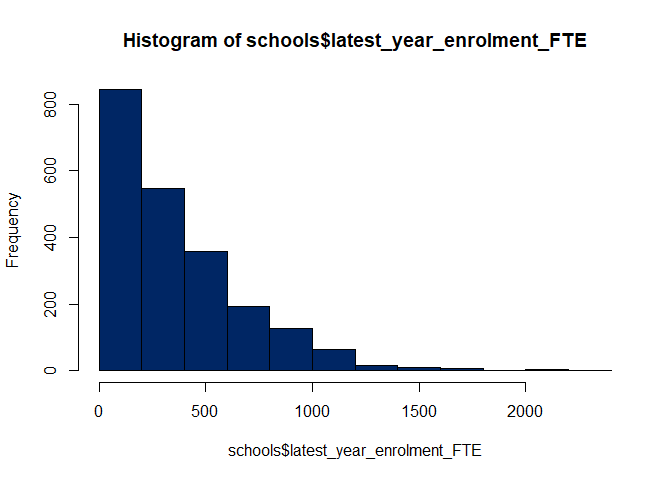
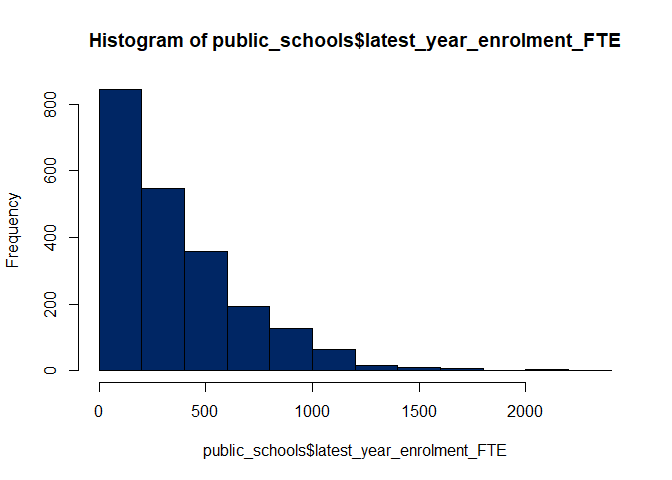
Use public_schools dataset in documentation, instead of an internet-hosted dataset

Changed region(s): [[0.125, 0.0625, 0.9375, 0.125], [0.2812, 0.9062, 0.75, 0.9688]]

diff --git a/README.md b/README.md
@@ -37,19 +37,31 @@ reinstalling packages on Windows.
 ## Usage examples
 
 The following examples use data from the [Public Schools Master
-Dataset](https://data.nsw.gov.au/search/dataset/ds-nsw-ckan-78c10ea3-8d04-4c9c-b255-bbf8547e37e7/).
+Dataset](https://data.nsw.gov.au/data/dataset/nsw-education-nsw-public-schools-master-dataset),
+which is available as a package dataset named `public_schools`.
 
 ``` r
 library(tidyverse)
 library(doestyle)
 
-# Read the Public Schools Master Dataset
-schools <- read_csv("https://data.nsw.gov.au/data/dataset/78c10ea3-8d04-4c9c-b255-bbf8547e37e7/resource/3e6d5f6a-055c-440d-a690-fc0537c31095/download/master_dataset.csv",
-                    col_types = cols(
-                      .default = col_guess(),
-                      LBOTE_pct = col_double(),
-                      Indigenous_pct = col_double()
-                    ))
+# The Public Schools Master Dataset
+head(public_schools)
+#> # A tibble: 6 × 45
+#>   School_code AgeID School_name   Street Town_suburb Postcode Phone School_Email
+#>   <chr>       <chr> <chr>         <chr>  <chr>       <chr>    <chr> <chr>       
+#> 1 5423        <NA>  John Brotchi… 1361 … Botany      2019     9316… johnbrotch-…
+#> 2 8600        86659 Secondary Co… Level… Parramatta  2150     02 7… SCLanguages…
+#> 3 8473        46360 Chifley Coll… 67 No… MOUNT DRUI… 2770     9625… chifcolsnr-…
+#> 4 8325        46407 Moree Second… Alber… Moree       2400     6752… mscalberts-…
+#> 5 8870        46426 St Marys Sen… Kalan… St Marys    2760     9623… stmaryssen-…
+#> 6 8374        46489 Brisbane Wat… 25 ED… WOY WOY     2256     4341… woywoy-h.sc…
+#> # ℹ 37 more variables: Website <chr>, Fax <chr>,
+#> #   latest_year_enrolment_FTE <dbl>, Indigenous_pct <dbl>, LBOTE_pct <dbl>,
+#> #   ICSEA_value <dbl>, Level_of_schooling <chr>, Selective_school <chr>,
+#> #   Opportunity_class <chr>, School_specialty_type <chr>, School_subtype <chr>,
+#> #   Support_classes <lgl>, Preschool_ind <chr>, Distance_education <chr>,
+#> #   Intensive_english_centre <chr>, School_gender <chr>,
+#> #   Late_opening_school <chr>, Date_1st_teacher <date>, LGA <chr>, …
 ```
 
 ### Quick branding
@@ -62,7 +74,7 @@ For a default colour scale, apply `scale_colour_doe()` with no
 arguments:
 
 ``` r
-schools |>
+public_schools |>
   filter(Operational_directorate == "Metropolitan South and West") |>
   ggplot(aes(x = LBOTE_pct, y = FOEI_Value, colour = Intensive_english_centre)) +
   geom_point() +
@@ -81,7 +93,7 @@ accessibility requirements for
 contrast](https://brand.education.nsw.gov.au/content/edam/en/brand-guideline.html).
 
 ``` r
-schools |>
+public_schools |>
   filter(str_detect(Principal_network, "Connected Communities")) |>
   ggplot(aes(x = Principal_network, fill = Level_of_schooling)) +
   geom_bar(colour = "black", position = position_dodge(preserve = "single")) +
@@ -164,7 +176,7 @@ These values can be used in base R plotting functions, if you are not a
 ggplot2 user:
 
 ``` r
-hist(schools$latest_year_enrolment_FTE, col = doe_colours("blue-01"))
+hist(public_schools$latest_year_enrolment_FTE, col = doe_colours("blue-01"))
 ```
 
 <img src="./man/figures/README-fig-base-hist-1.png" width="100%" />
@@ -178,7 +190,7 @@ attractive - but you can help make it better by contributing to
 `doestyle`!
 
 ``` r
-schools |>
+public_schools |>
   group_by(year = year(Date_1st_teacher)) |>
   count() |>
   ggplot(aes(x = year, y = n)) +
@@ -227,7 +239,7 @@ library(palettes)
 my_custom_doe_palette <- pal_colour(
   doe_colours("blue-02", "grey-02", "red-02"))
 
-schools |>
+public_schools |>
   ggplot(aes(x = Date_1st_teacher,
              y = latest_year_enrolment_FTE,
              colour = School_gender,

diff --git a/NEWS.md b/NEWS.md
@@ -1,3 +1,8 @@
+# doestyle 0.2.2
+
+* Include example dataset `public_schools`
+* Switch vignette renderer to knitr, to avoid package installation problems on some systems.
+
 # doestyle 0.2.1
 
 * Pass arguments from `theme_doe()` to `ggplot2::theme()` via `...`
